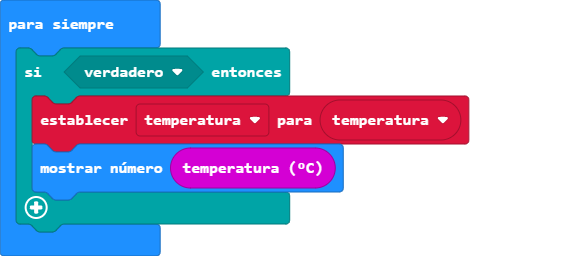
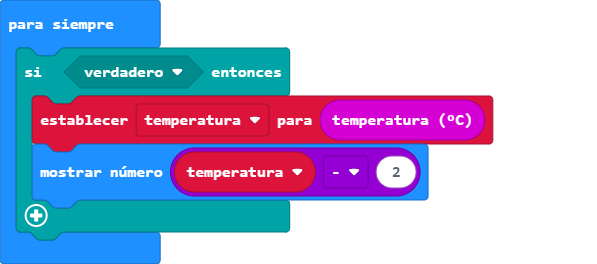
Actualizar main.blocks, main.ts

diff --git a/main.ts b/main.ts
@@ -1,7 +1,7 @@
 let temperatura = 0
 basic.forever(function () {
     if (true) {
-        temperatura = temperatura
-        basic.showNumber(input.temperature())
+        temperatura = input.temperature()
+        basic.showNumber(temperatura - 2)
     }
 })
